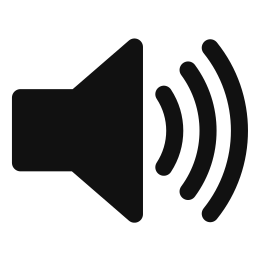
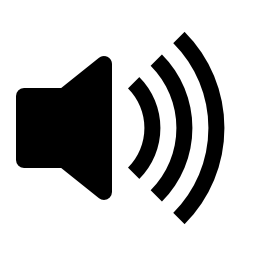
Support uploading of documents.

Changed region(s): [[0.0312, 0.125, 0.9688, 0.875]]

diff --git a/uploader/uploader.go b/uploader/uploader.go
@@ -71,9 +71,10 @@ import (
 )
 
 const (
-	MediaImage = 1
-	MediaVideo = 2
-	MediaAudio = 3
+	MediaImage    = 1
+	MediaVideo    = 2
+	MediaAudio    = 3
+	MediaDocument = 4
 )
 
 // Uploader holds the parameters and state for uploading files. Typically only one is needed.
@@ -91,13 +92,14 @@ type Uploader struct {
 	DeleteAfter     time.Duration // delay before deleting a file
 	SnapshotAt      time.Duration // snapshot time in video (-ve for none)
 	AudioTypes      []string
+	DocumentTypes   []string
 	ImageQuality    int    // JPEG quality, 1-100
 	VideoPackage    string // software for video processing: ffmpeg, or a docker-hosted implementation of ffmpeg, for debugging
 	VideoResolution int
 	VideoTypes      []string
 
 	// media accepted and converted
-	mediaFormats    map[string]mediaFormat
+	mediaFormats map[string]mediaFormat
 
 	// components
 	errorLog *log.Logger
@@ -143,8 +145,8 @@ type Bind struct {
 
 type reqSave struct {
 	format mediaFormat
-	name      string // file name
-	claim     *Claim
+	name   string // file name
+	claim  *Claim
 }
 
 type reqClaimed struct {
@@ -250,8 +252,9 @@ func (up *Uploader) Initialise(log *log.Logger, db DB, tm *etx.TM) {
 
 	// acceptable media types
 	trimSpaces(up.AudioTypes)
+	trimSpaces(up.DocumentTypes)
 	trimSpaces(up.VideoTypes)
-	up.mediaFormats = initialiseFormats(up.AudioTypes, up.VideoTypes)
+	up.mediaFormats = initialiseFormats(up.AudioTypes, up.DocumentTypes, up.VideoTypes)
 
 	up.errorLog = log
 	up.db = db
@@ -637,13 +640,18 @@ func Thumbnail(filename string) string {
 	case ".jpg", ".png":
 		return "S" + filename[1:]
 
+	case ".mp4":
+		// videos have JPG thumbnail
+		tn := changeExt(filename, ".jpg")
+		return "S" + tn[1:]
+
 	// ## extensions not normalised for current websites :-(
 	case ".jpeg", ".JPG", ".PNG", ".JPEG":
 		return "S" + filename[1:]
 
 	default:
-		// replace file extension
-		tn := changeExt(filename, ".jpg")
+		// audio and documents have PNG thumbnail
+		tn := changeExt(filename, ".png")
 		return "S" + tn[1:]
 	}
 }
@@ -726,32 +734,37 @@ func (up *Uploader) getFormat(name string) mediaFormat {
 }
 
 // initialiseFormats returns the mediaFormat specifications for all supported media types.
-func initialiseFormats(audioTypes []string, videoTypes []string) (formats map[string]mediaFormat) {
+func initialiseFormats(audioTypes []string, docTypes []string, videoTypes []string) (formats map[string]mediaFormat) {
 
 	formats = make(map[string]mediaFormat, 20)
 
 	// acceptable image types
-	formats[".bmp"] = mediaFormat{mediaType: MediaImage, convert: true, toType:".png"}
-	formats[".gif"] = mediaFormat{mediaType: MediaImage, convert: true, toType:".png"}
-	formats[".jpg"] = mediaFormat{mediaType: MediaImage, convert: false, toType:".jpg"}
-	formats[".jpeg"] = mediaFormat{mediaType: MediaImage, convert: false, toType:".jpg"}
-	formats[".png"] = mediaFormat{mediaType: MediaImage, convert: false, toType:".png"}
-	formats[".tif"] = mediaFormat{mediaType: MediaImage, convert: true, toType:".jpg"}
-	formats[".tiff"] = mediaFormat{mediaType: MediaImage, convert: true, toType:".jpg"}
-	formats[".webp"] = mediaFormat{mediaType: MediaImage, convert: true, toType:".png"}
+	formats[".bmp"] = mediaFormat{mediaType: MediaImage, convert: true, toType: ".png"}
+	formats[".gif"] = mediaFormat{mediaType: MediaImage, convert: true, toType: ".png"}
+	formats[".jpg"] = mediaFormat{mediaType: MediaImage, convert: false, toType: ".jpg"}
+	formats[".jpeg"] = mediaFormat{mediaType: MediaImage, convert: false, toType: ".jpg"}
+	formats[".png"] = mediaFormat{mediaType: MediaImage, convert: false, toType: ".png"}
+	formats[".tif"] = mediaFormat{mediaType: MediaImage, convert: true, toType: ".jpg"}
+	formats[".tiff"] = mediaFormat{mediaType: MediaImage, convert: true, toType: ".jpg"}
+	formats[".webp"] = mediaFormat{mediaType: MediaImage, convert: true, toType: ".png"}
 
 	// acceptable audio formats, all converted to M4A
 	for _, t := range audioTypes {
 		cvt := t != ".m4a"
-		formats[t] = mediaFormat{mediaType: MediaAudio, convert: cvt, toType:".m4a"}
+		formats[t] = mediaFormat{mediaType: MediaAudio, convert: cvt, toType: ".m4a"}
+	}
+
+	// acceptable document formats, not converted
+	for _, t := range docTypes {
+		formats[t] = mediaFormat{mediaType: MediaDocument, toType: t}
 	}
 
 	// acceptable video formats, all converted to MP4
 	for _, t := range videoTypes {
 		cvt := t != ".mp4"
-		formats[t] = mediaFormat{mediaType: MediaVideo, convert: cvt, toType:".mp4"}
+		formats[t] = mediaFormat{mediaType: MediaVideo, convert: cvt, toType: ".mp4"}
 	}
-	
+
 	return
 }
 
@@ -854,6 +867,10 @@ func (up *Uploader) saveMedia(req reqSave) error {
 		}
 		// otherwise, processing continued in AV worker
 
+	case MediaDocument:
+		err = up.saveDocument(req)
+		up.opDone(req.claim)
+
 	case MediaImage:
 		err = up.saveImage(req)
 		up.opDone(req.claim)
@@ -870,9 +887,9 @@ func stem(fn string) string {
 // trimSpaces removes any leading spaces from a list derived from an environment string
 func trimSpaces(ss []string) {
 	for i, s := range ss {
-			ss[i] = strings.TrimSpace(s)
-		}
+		ss[i] = strings.TrimSpace(s)
 	}
+}
 
 // worker does background processing for media.
 func (up *Uploader) worker(

diff --git a/uploader/images.go b/uploader/images.go
@@ -178,7 +178,7 @@ func (up *Uploader) saveImage(req reqSave) error {
 		runtime.Gosched()
 
 		// save and delete original
-		if err := saveImageAs(req.format.toType, img, toPath, up.ImageQuality); err != nil {
+		if err := saveImageAs(img, toPath, up.ImageQuality); err != nil {
 			return err // ## could be a bad name?
 		}
 		if err := os.Remove(fromPath); err != nil {
@@ -195,13 +195,13 @@ func (up *Uploader) saveImage(req reqSave) error {
 }
 
 // saveImage saves the image to a file with the specified format.
-func saveImageAs(format string, img image.Image, name string, quality int) error {
+func saveImageAs(img image.Image, name string, quality int) error {
 	file, err := os.Create(name)
 	if err != nil {
 		return err
 	}
 
-	switch format {
+	switch filepath.Ext(name) {
 	case ".jpg": 
 		err = jpeg.Encode(file, img, &jpeg.Options{Quality: quality})
 	
@@ -220,5 +220,5 @@ func (up *Uploader) saveThumbnail(img image.Image, o orientation, name string) e
 	thumbnail := fit(img, image.Point{X: up.ThumbW, Y: up.ThumbH})
 	thumbnail = FixOrientation(thumbnail, o)
 
-	return saveImageAs(".jpg", thumbnail, name, up.ImageQuality)
+	return saveImageAs(thumbnail, name, up.ImageQuality)
 }

diff --git a/uploader/documents.go b/uploader/documents.go
@@ -1,0 +1,39 @@
+// Copyright © Rob Burke inchworks.com, 2025.
+
+package uploader
+
+// Document file processing.
+
+import (
+	"io/fs"
+	"os"
+	"path/filepath"
+)
+
+// saveDocument saves the document file and a thumbnail.
+func (up *Uploader) saveDocument(req reqSave) error {
+
+	var err error
+	fromName := req.name
+	fromPath := filepath.Join(up.FilePath, fromName)
+	toName := changeExt(req.name, req.format.toType)  // normalised file extension
+
+	// rename to a permanent file
+	toName = changePrefix("M", toName)
+	if err = os.Rename(fromPath, filepath.Join(up.FilePath, toName)); err != nil {
+		return err
+	}
+
+	// add a dummy thumbnail for the document type
+	err = copyStatic(up.FilePath, Thumbnail(fromName), WebFiles, thumbnailForExt(req.format.toType))
+	if err == fs.ErrNotExist {
+		// default thumbnail
+		err = copyStatic(up.FilePath, Thumbnail(fromName), WebFiles, "web/static/document.png")
+	}
+	return err
+}
+
+// staticForExt returns a static thumbnail image for a file extension
+func thumbnailForExt(ext string) string {
+	return "web/static/" + ext[1:] + ".png"
+}

diff --git a/uploader/videos.go b/uploader/videos.go
@@ -125,7 +125,7 @@ func (up *Uploader) saveSnapshot(videoName string) error {
 	return err
 }
 
-// saveVideo saves the video file and a thumbnail. It returns true if format conversion is needed.
+// saveAV saves the audio or video file and a thumbnail. It returns true if format conversion is needed.
 func (up *Uploader) saveAV(req reqSave) (bool, error) {
 
 	var err error
